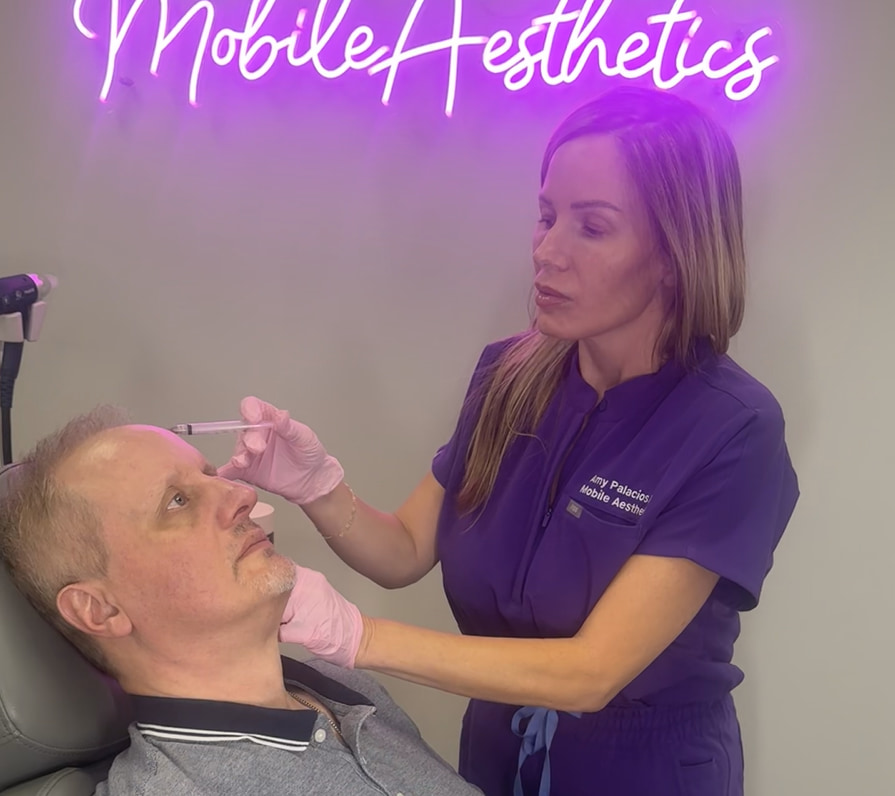
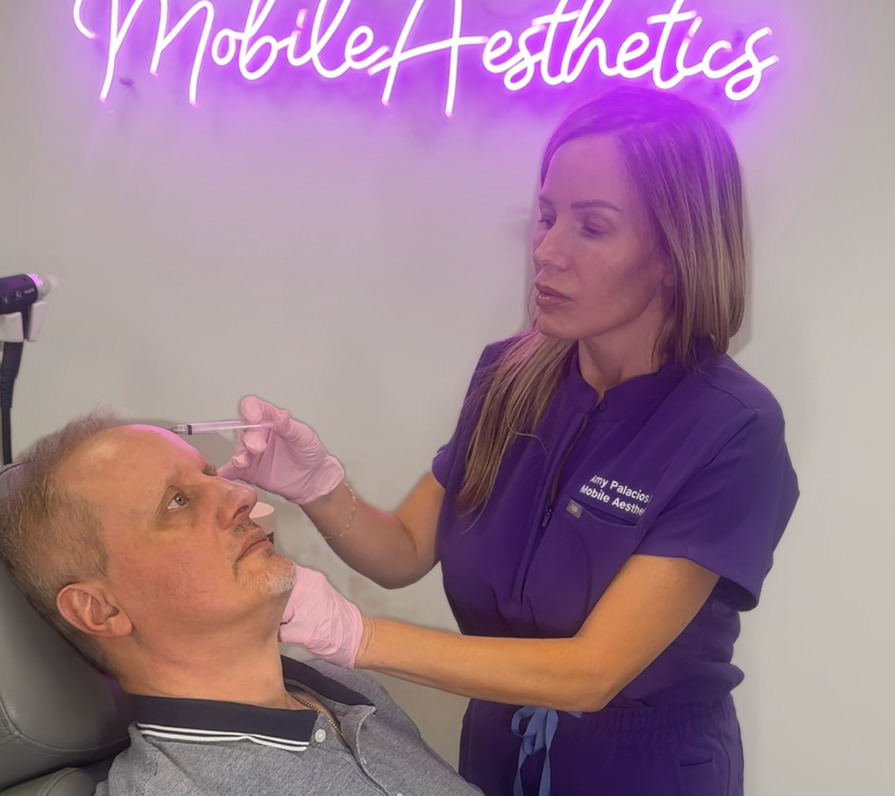
fix(services): regrade the Regenerative card's PRP photo
The client's skin is warmer, Amy's arms slightly so, and the grey wall
is lighter; Amy's face is left exactly as photographed (operator
direction). A colour grade of the committed file, no generated pixels,
same 895x796 frame. DECISIONS and CHANGELOG 2026-09-30.

diff --git a/docs/DECISIONS.md b/docs/DECISIONS.md
@@ -14099,3 +14099,26 @@ the iPhone loop check are still to come.
   entry is needed; no structured data carries the card prices. The
   page's `clinicianApproved` stays false, and the sign-off sheet asks
   Amy to confirm the price.
+
+## 2026-09-30 — Regenerative card: the PRP photo gets a colour grade (operator direction)
+
+- **Context:** the operator found the /services "04 Regenerative
+  Treatments" card photo (`prp-treatment.jpg`) washed out, the client
+  most of all, and asked for a little warmth on him and on Amy and a
+  lighter grey wall.
+- **Decision:** a local colour grade of the committed file, no
+  generated pixels. The client's skin is warmed and slightly
+  deepened; Amy's arms take a lighter version of the same; the grey
+  wall (the neon-lit part included) is lifted about 30% of the way
+  toward white, sparing highlights. Amy's face keeps the photo's own
+  colour and brightness, untouched. Masks were drawn from
+  colour plus traced outlines of both heads, so the hair, the gloves,
+  the scrubs, his shirt and the chair are untouched. Re-encoded JPEG
+  q92, same 895x796 frame.
+- **Rejected, on sight:** a stronger grade (the operator chose the
+  gentle one); Amy's face matched to her extended arm (too yellow),
+  and her face lightened (too pale), so her face is exactly the
+  photo's.
+- **Consequences:** only the card changes (the /services menu and the
+  style guide, which renders it); no copy or alt text changes, and
+  nothing new is shown. The pre-grade file stays in git history.

diff --git a/docs/CHANGELOG.md b/docs/CHANGELOG.md
@@ -6,6 +6,14 @@ change lives in `docs/DECISIONS.md`; design specs live in
 
 ## Post-launch revision round (`phase-c`)
 
+### 2026-09-30 — The /services Regenerative card photo is regraded
+
+- The PRP photo on the "04 Regenerative Treatments" card is warmer on
+  the client and on Amy's arms, and the grey wall is lighter. Amy's face
+  is unchanged. A colour grade only: no
+  generated pixels, same frame, no copy or alt changes.
+  DECISIONS 2026-09-30.
+
 ### 2026-09-30 — Vitamin B12 is priced on /services/iv-therapy
 
 - The Vitamin B12 card now reads "$25 per shot", the operator's price and
